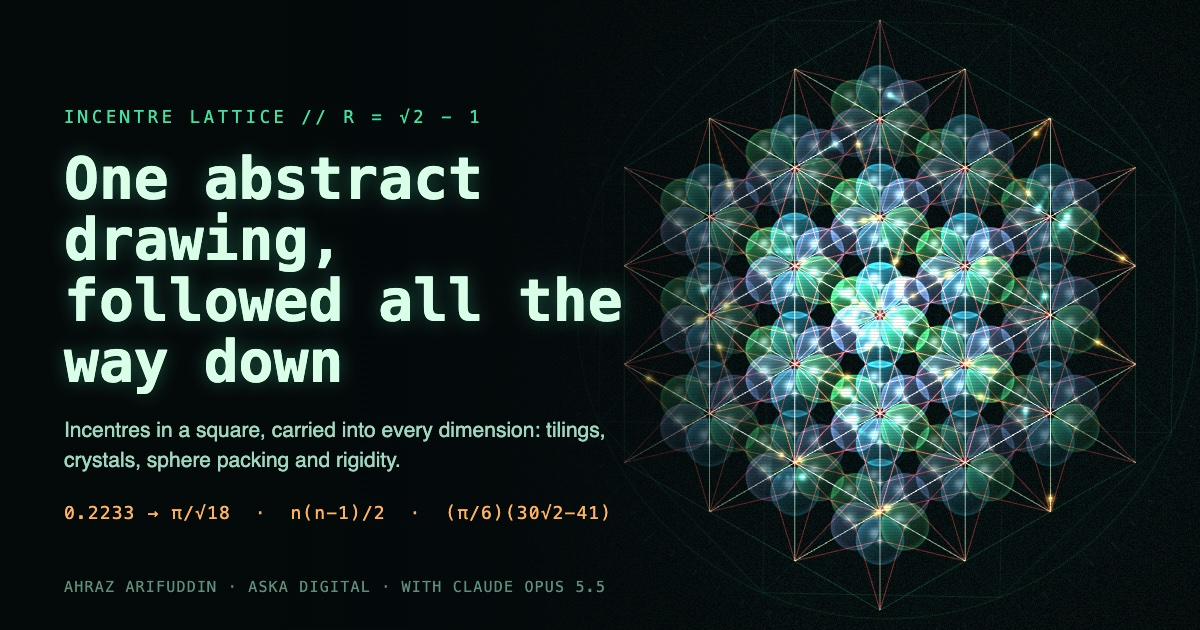
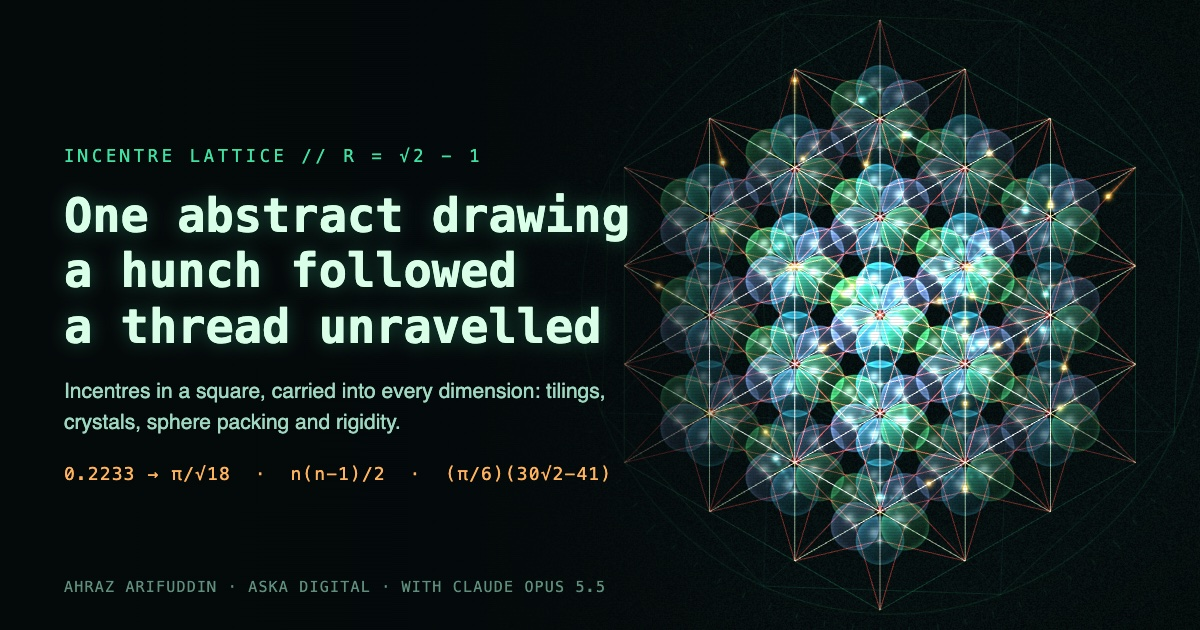
Retitle: One abstract drawing, a hunch followed, a thread unravelled; new preview card; Zenodo metadata

diff --git a/index.html b/index.html
@@ -1,17 +1,17 @@
 <!doctype html>
 <html lang="en"><head><meta charset="utf-8">
 <meta name="viewport" content="width=device-width,initial-scale=1">
-<title>ABSTRACT // Incentre lattice</title>
+<title>One abstract drawing // Incentre lattice</title>
 <meta property="og:type" content="website">
 <meta property="og:site_name" content="Incentre lattice">
-<meta property="og:title" content="One abstract drawing, followed all the way down">
+<meta property="og:title" content="One abstract drawing. A hunch followed. A thread unravelled.">
 <meta property="og:description" content="Incentres in a square, carried into every dimension: tilings, crystals, sphere packing and rigidity. An infographic abstract with proofs and verified results.">
 <meta property="og:url" content="https://aska-digital.github.io/incentre-lattice/">
 <meta property="og:image" content="https://aska-digital.github.io/incentre-lattice/og.jpg">
 <meta property="og:image:width" content="1200"><meta property="og:image:height" content="630">
-<meta property="og:image:alt" content="A glowing lattice of touching spheres seen down a cube diagonal, beside the title One abstract drawing, followed all the way down.">
+<meta property="og:image:alt" content="A glowing lattice of touching spheres seen down a cube diagonal, beside the title One abstract drawing. A hunch followed. A thread unravelled..">
 <meta name="twitter:card" content="summary_large_image">
-<meta name="twitter:title" content="One abstract drawing, followed all the way down"><meta name="twitter:description" content="Incentres in a square, carried into every dimension: tilings, crystals, sphere packing and rigidity. An infographic abstract with proofs and verified results."><meta name="twitter:image" content="https://aska-digital.github.io/incentre-lattice/og.jpg">
+<meta name="twitter:title" content="One abstract drawing. A hunch followed. A thread unravelled."><meta name="twitter:description" content="Incentres in a square, carried into every dimension: tilings, crystals, sphere packing and rigidity. An infographic abstract with proofs and verified results."><meta name="twitter:image" content="https://aska-digital.github.io/incentre-lattice/og.jpg">
 <meta name="description" content="Incentres in a square, carried into every dimension: tilings, crystals, sphere packing and rigidity. An infographic abstract with proofs and verified results.">
 <link rel="stylesheet" href="codex.css">
 <style>
@@ -158,7 +158,7 @@ a.door.soon:hover{background:rgba(55,255,154,.03);box-shadow:none;border-color:r
 <!-- 1 TITLE -->
 <section class="ip hero" id="s1">
  <div class="lbl"><span>00 // INFOGRAPHIC ABSTRACT</span><span class="tg conj">NOT PEER REVIEWED</span></div>
- <h1>One abstract drawing, followed all the way down</h1>
+ <h1>One abstract drawing<br>a hunch followed<br>a thread unravelled</h1>
  <p class="hook">A pattern of incentres in a square, extended to every dimension, and the places it meets crystal chemistry, sphere packing and rigidity theory.</p>
  <div class="auth">Ahraz Arifuddin, Aska Digital &nbsp;<a class="pdf" href="papers/incentre-lattice.pdf" target="_blank" rel="noopener">[ READ THE PAPER · PDF ]</a></div>
  <p class="abs">Draw a square and its two diagonals, then mark, in each of the four triangles, the incentre: the one point equally far from all three sides, the centre of the inscribed circle. Carried into a cube and into higher dimensions, the drawing lands on known structures: a tiling by squares and octagons, a honeycomb of truncated cubes, the radius-ratio limits of crystal chemistry and the boron framework of calcium hexaboride, all classical (Wythoff, Coxeter, Pauling) and credited as such. What we could not find in print is exact: how rigid the framework of touching balls is in every dimension, one identity behind the radius-ratio limits, a closed form for the densest packing of the boron structure, and a bar-preserving, overlap-free fold of the 3D framework from density 0.2233 to close packing. These come from a web search and two independent checkers, not from peer review, and every claim carries an evidence label.</p>

diff --git a/tools/og/card.html b/tools/og/card.html
@@ -4,7 +4,7 @@ iframe{position:absolute;left:430px;top:-40px;width:900px;height:710px;border:0}
 .fade{position:absolute;inset:0;background:linear-gradient(90deg,#04090a 0%,#04090aee 40%,#04090a00 66%)}
 .t{position:absolute;left:64px;top:0;bottom:0;width:560px;display:flex;flex-direction:column;justify-content:center;font-family:ui-monospace,Menlo,monospace;color:#d9ffe9}
 .k{font-size:17px;letter-spacing:.22em;color:#3fe0a0;margin-bottom:22px}
-h1{font-size:58px;line-height:1.05;margin:0 0 22px;font-weight:600;text-shadow:0 0 18px #3fe0a055}
+h1{font-size:47px;line-height:1.18;white-space:nowrap;margin:0 0 22px;font-weight:600;text-shadow:0 0 18px #3fe0a055}
 p{font-size:21px;line-height:1.45;margin:0 0 26px;color:#9fd8c0;font-family:-apple-system,Helvetica,Arial,sans-serif}
 .n{font-size:18px;color:#ffb35c;letter-spacing:.06em}
 .b{position:absolute;left:64px;bottom:34px;font:15px ui-monospace,Menlo,monospace;color:#5f8f7c;letter-spacing:.08em}
@@ -13,7 +13,7 @@ p{font-size:21px;line-height:1.45;margin:0 0 26px;color:#9fd8c0;font-family:-app
 <div class="fade"></div>
 <div class="t">
  <div class="k">INCENTRE LATTICE // R = √2 − 1</div>
- <h1>One abstract drawing, followed all the way down</h1>
+ <h1>One abstract drawing<br>a hunch followed<br>a thread unravelled</h1>
  <p>Incentres in a square, carried into every dimension: tilings, crystals, sphere packing and rigidity.</p>
  <div class="n">0.2233 → π/√18 &nbsp;·&nbsp; n(n−1)/2 &nbsp;·&nbsp; (π/6)(30√2−41)</div>
 </div>

diff --git a/origin.html b/origin.html
@@ -10,7 +10,7 @@
 <meta property="og:url" content="https://aska-digital.github.io/incentre-lattice/origin.html">
 <meta property="og:image" content="https://aska-digital.github.io/incentre-lattice/og.jpg">
 <meta property="og:image:width" content="1200"><meta property="og:image:height" content="630">
-<meta property="og:image:alt" content="A glowing lattice of touching spheres seen down a cube diagonal, beside the title One abstract drawing, followed all the way down.">
+<meta property="og:image:alt" content="A glowing lattice of touching spheres seen down a cube diagonal, beside the title One abstract drawing. A hunch followed. A thread unravelled..">
 <meta name="twitter:card" content="summary_large_image">
 <meta name="twitter:title" content="THE DRAWING // LATTICE"><meta name="twitter:description" content="Incentres in a square, carried into every dimension: tilings, crystals, sphere packing and rigidity. Interactive site, proofs and verified results."><meta name="twitter:image" content="https://aska-digital.github.io/incentre-lattice/og.jpg">
 <link rel="stylesheet" href="codex.css">

diff --git a/mind.html b/mind.html
@@ -10,7 +10,7 @@
 <meta property="og:url" content="https://aska-digital.github.io/incentre-lattice/mind.html">
 <meta property="og:image" content="https://aska-digital.github.io/incentre-lattice/og.jpg">
 <meta property="og:image:width" content="1200"><meta property="og:image:height" content="630">
-<meta property="og:image:alt" content="A glowing lattice of touching spheres seen down a cube diagonal, beside the title One abstract drawing, followed all the way down.">
+<meta property="og:image:alt" content="A glowing lattice of touching spheres seen down a cube diagonal, beside the title One abstract drawing. A hunch followed. A thread unravelled..">
 <meta name="twitter:card" content="summary_large_image">
 <meta name="twitter:title" content="PERCEPTION // LATTICE"><meta name="twitter:description" content="Incentres in a square, carried into every dimension: tilings, crystals, sphere packing and rigidity. Interactive site, proofs and verified results."><meta name="twitter:image" content="https://aska-digital.github.io/incentre-lattice/og.jpg">
 <link rel="stylesheet" href="codex.css">

diff --git a/mirrors.html b/mirrors.html
@@ -10,7 +10,7 @@
 <meta property="og:url" content="https://aska-digital.github.io/incentre-lattice/mirrors.html">
 <meta property="og:image" content="https://aska-digital.github.io/incentre-lattice/og.jpg">
 <meta property="og:image:width" content="1200"><meta property="og:image:height" content="630">
-<meta property="og:image:alt" content="A glowing lattice of touching spheres seen down a cube diagonal, beside the title One abstract drawing, followed all the way down.">
+<meta property="og:image:alt" content="A glowing lattice of touching spheres seen down a cube diagonal, beside the title One abstract drawing. A hunch followed. A thread unravelled..">
 <meta name="twitter:card" content="summary_large_image">
 <meta name="twitter:title" content="MIRRORS // LATTICE"><meta name="twitter:description" content="Incentres in a square, carried into every dimension: tilings, crystals, sphere packing and rigidity. Interactive site, proofs and verified results."><meta name="twitter:image" content="https://aska-digital.github.io/incentre-lattice/og.jpg">
 <link rel="stylesheet" href="codex.css">

diff --git a/matter.html b/matter.html
@@ -10,7 +10,7 @@
 <meta property="og:url" content="https://aska-digital.github.io/incentre-lattice/matter.html">
 <meta property="og:image" content="https://aska-digital.github.io/incentre-lattice/og.jpg">
 <meta property="og:image:width" content="1200"><meta property="og:image:height" content="630">
-<meta property="og:image:alt" content="A glowing lattice of touching spheres seen down a cube diagonal, beside the title One abstract drawing, followed all the way down.">
+<meta property="og:image:alt" content="A glowing lattice of touching spheres seen down a cube diagonal, beside the title One abstract drawing. A hunch followed. A thread unravelled..">
 <meta name="twitter:card" content="summary_large_image">
 <meta name="twitter:title" content="MATTER // LATTICE"><meta name="twitter:description" content="Incentres in a square, carried into every dimension: tilings, crystals, sphere packing and rigidity. Interactive site, proofs and verified results."><meta name="twitter:image" content="https://aska-digital.github.io/incentre-lattice/og.jpg">
 <link rel="stylesheet" href="codex.css">

diff --git a/motion.html b/motion.html
@@ -10,7 +10,7 @@
 <meta property="og:url" content="https://aska-digital.github.io/incentre-lattice/motion.html">
 <meta property="og:image" content="https://aska-digital.github.io/incentre-lattice/og.jpg">
 <meta property="og:image:width" content="1200"><meta property="og:image:height" content="630">
-<meta property="og:image:alt" content="A glowing lattice of touching spheres seen down a cube diagonal, beside the title One abstract drawing, followed all the way down.">
+<meta property="og:image:alt" content="A glowing lattice of touching spheres seen down a cube diagonal, beside the title One abstract drawing. A hunch followed. A thread unravelled..">
 <meta name="twitter:card" content="summary_large_image">
 <meta name="twitter:title" content="MOTION // LATTICE"><meta name="twitter:description" content="Incentres in a square, carried into every dimension: tilings, crystals, sphere packing and rigidity. Interactive site, proofs and verified results."><meta name="twitter:image" content="https://aska-digital.github.io/incentre-lattice/og.jpg">
 <link rel="stylesheet" href="codex.css">

diff --git a/drift.html b/drift.html
@@ -10,7 +10,7 @@
 <meta property="og:url" content="https://aska-digital.github.io/incentre-lattice/drift.html">
 <meta property="og:image" content="https://aska-digital.github.io/incentre-lattice/og.jpg">
 <meta property="og:image:width" content="1200"><meta property="og:image:height" content="630">
-<meta property="og:image:alt" content="A glowing lattice of touching spheres seen down a cube diagonal, beside the title One abstract drawing, followed all the way down.">
+<meta property="og:image:alt" content="A glowing lattice of touching spheres seen down a cube diagonal, beside the title One abstract drawing. A hunch followed. A thread unravelled..">
 <meta name="twitter:card" content="summary_large_image">
 <meta name="twitter:title" content="DRIFT // LATTICE"><meta name="twitter:description" content="Incentres in a square, carried into every dimension: tilings, crystals, sphere packing and rigidity. Interactive site, proofs and verified results."><meta name="twitter:image" content="https://aska-digital.github.io/incentre-lattice/og.jpg">
 <link rel="stylesheet" href="codex.css">

diff --git a/open.html b/open.html
@@ -10,7 +10,7 @@
 <meta property="og:url" content="https://aska-digital.github.io/incentre-lattice/open.html">
 <meta property="og:image" content="https://aska-digital.github.io/incentre-lattice/og.jpg">
 <meta property="og:image:width" content="1200"><meta property="og:image:height" content="630">
-<meta property="og:image:alt" content="A glowing lattice of touching spheres seen down a cube diagonal, beside the title One abstract drawing, followed all the way down.">
+<meta property="og:image:alt" content="A glowing lattice of touching spheres seen down a cube diagonal, beside the title One abstract drawing. A hunch followed. A thread unravelled..">
 <meta name="twitter:card" content="summary_large_image">
 <meta name="twitter:title" content="LEDGER // LATTICE"><meta name="twitter:description" content="Incentres in a square, carried into every dimension: tilings, crystals, sphere packing and rigidity. Interactive site, proofs and verified results."><meta name="twitter:image" content="https://aska-digital.github.io/incentre-lattice/og.jpg">
 <link rel="stylesheet" href="codex.css">

diff --git a/seek.html b/seek.html
@@ -10,7 +10,7 @@
 <meta property="og:url" content="https://aska-digital.github.io/incentre-lattice/seek.html">
 <meta property="og:image" content="https://aska-digital.github.io/incentre-lattice/og.jpg">
 <meta property="og:image:width" content="1200"><meta property="og:image:height" content="630">
-<meta property="og:image:alt" content="A glowing lattice of touching spheres seen down a cube diagonal, beside the title One abstract drawing, followed all the way down.">
+<meta property="og:image:alt" content="A glowing lattice of touching spheres seen down a cube diagonal, beside the title One abstract drawing. A hunch followed. A thread unravelled..">
 <meta name="twitter:card" content="summary_large_image">
 <meta name="twitter:title" content="SEARCH // LATTICE"><meta name="twitter:description" content="Incentres in a square, carried into every dimension: tilings, crystals, sphere packing and rigidity. Interactive site, proofs and verified results."><meta name="twitter:image" content="https://aska-digital.github.io/incentre-lattice/og.jpg">
 <link rel="stylesheet" href="codex.css">

diff --git a/deeper.html b/deeper.html
@@ -9,7 +9,7 @@
 <meta property="og:url" content="https://aska-digital.github.io/incentre-lattice/deeper.html">
 <meta property="og:image" content="https://aska-digital.github.io/incentre-lattice/og.jpg">
 <meta property="og:image:width" content="1200"><meta property="og:image:height" content="630">
-<meta property="og:image:alt" content="A glowing lattice of touching spheres seen down a cube diagonal, beside the title One abstract drawing, followed all the way down.">
+<meta property="og:image:alt" content="A glowing lattice of touching spheres seen down a cube diagonal, beside the title One abstract drawing. A hunch followed. A thread unravelled..">
 <meta name="twitter:card" content="summary_large_image">
 <meta name="twitter:title" content="Atoms, tilings and dimensions | Incentre lattice"><meta name="twitter:description" content="Incentres in a square, carried into every dimension: tilings, crystals, sphere packing and rigidity. Interactive site, proofs and verified results."><meta name="twitter:image" content="https://aska-digital.github.io/incentre-lattice/og.jpg">
 <style>

diff --git a/cube-six.html b/cube-six.html
@@ -8,7 +8,7 @@
 <meta property="og:url" content="https://aska-digital.github.io/incentre-lattice/cube-six.html">
 <meta property="og:image" content="https://aska-digital.github.io/incentre-lattice/og.jpg">
 <meta property="og:image:width" content="1200"><meta property="og:image:height" content="630">
-<meta property="og:image:alt" content="A glowing lattice of touching spheres seen down a cube diagonal, beside the title One abstract drawing, followed all the way down.">
+<meta property="og:image:alt" content="A glowing lattice of touching spheres seen down a cube diagonal, beside the title One abstract drawing. A hunch followed. A thread unravelled..">
 <meta name="twitter:card" content="summary_large_image">
 <meta name="twitter:title" content="The cube, hands-on | Incentre lattice"><meta name="twitter:description" content="Incentres in a square, carried into every dimension: tilings, crystals, sphere packing and rigidity. Interactive site, proofs and verified results."><meta name="twitter:image" content="https://aska-digital.github.io/incentre-lattice/og.jpg">
 <style>
